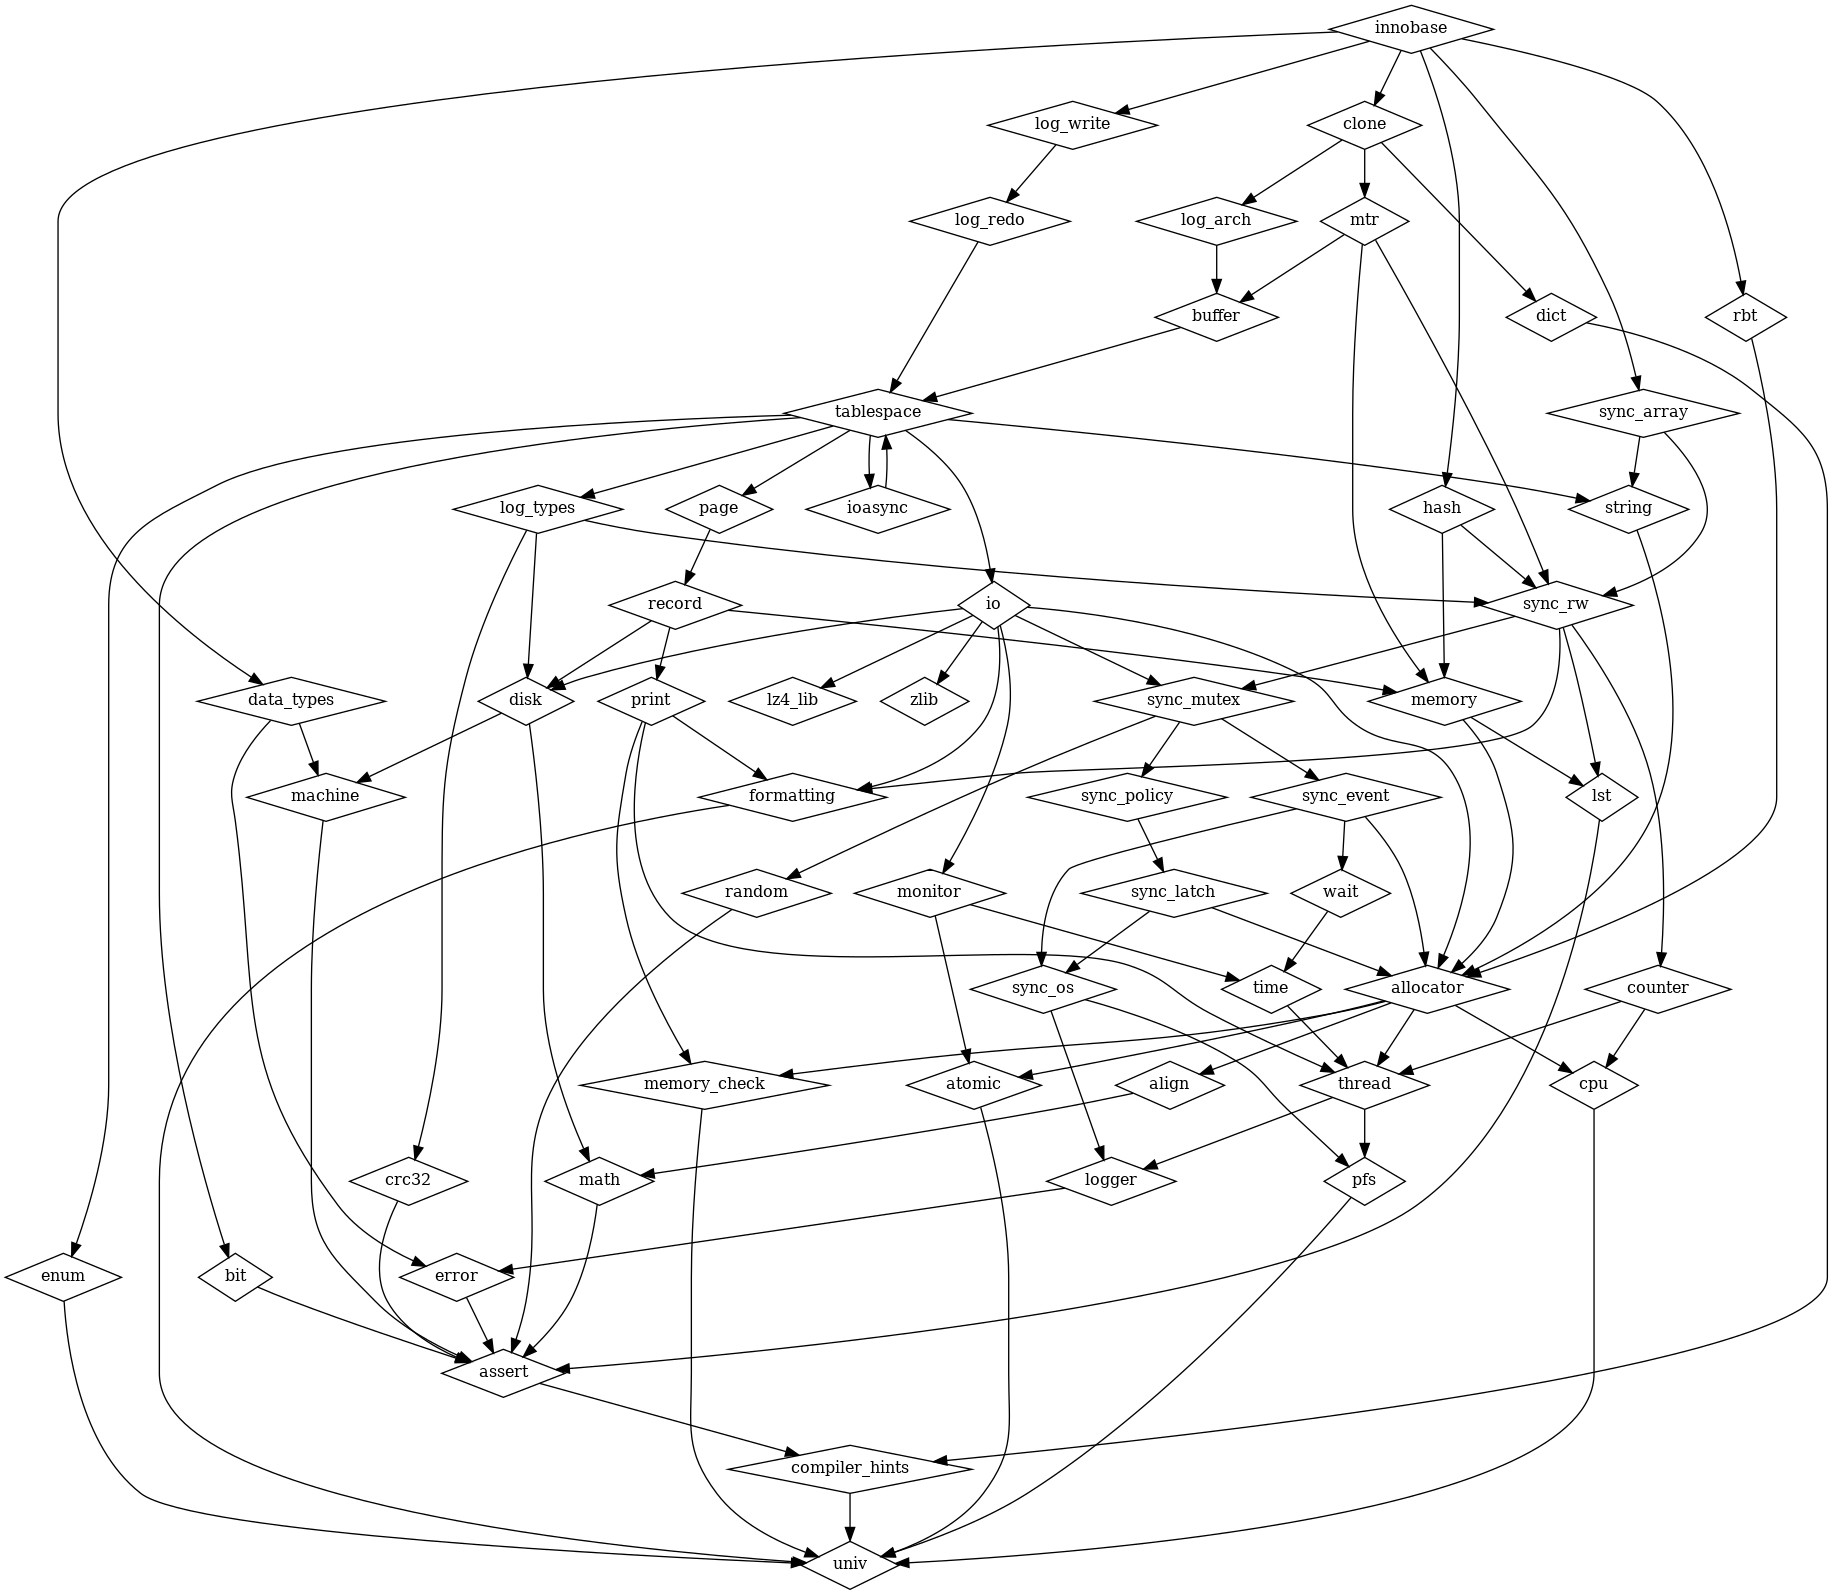
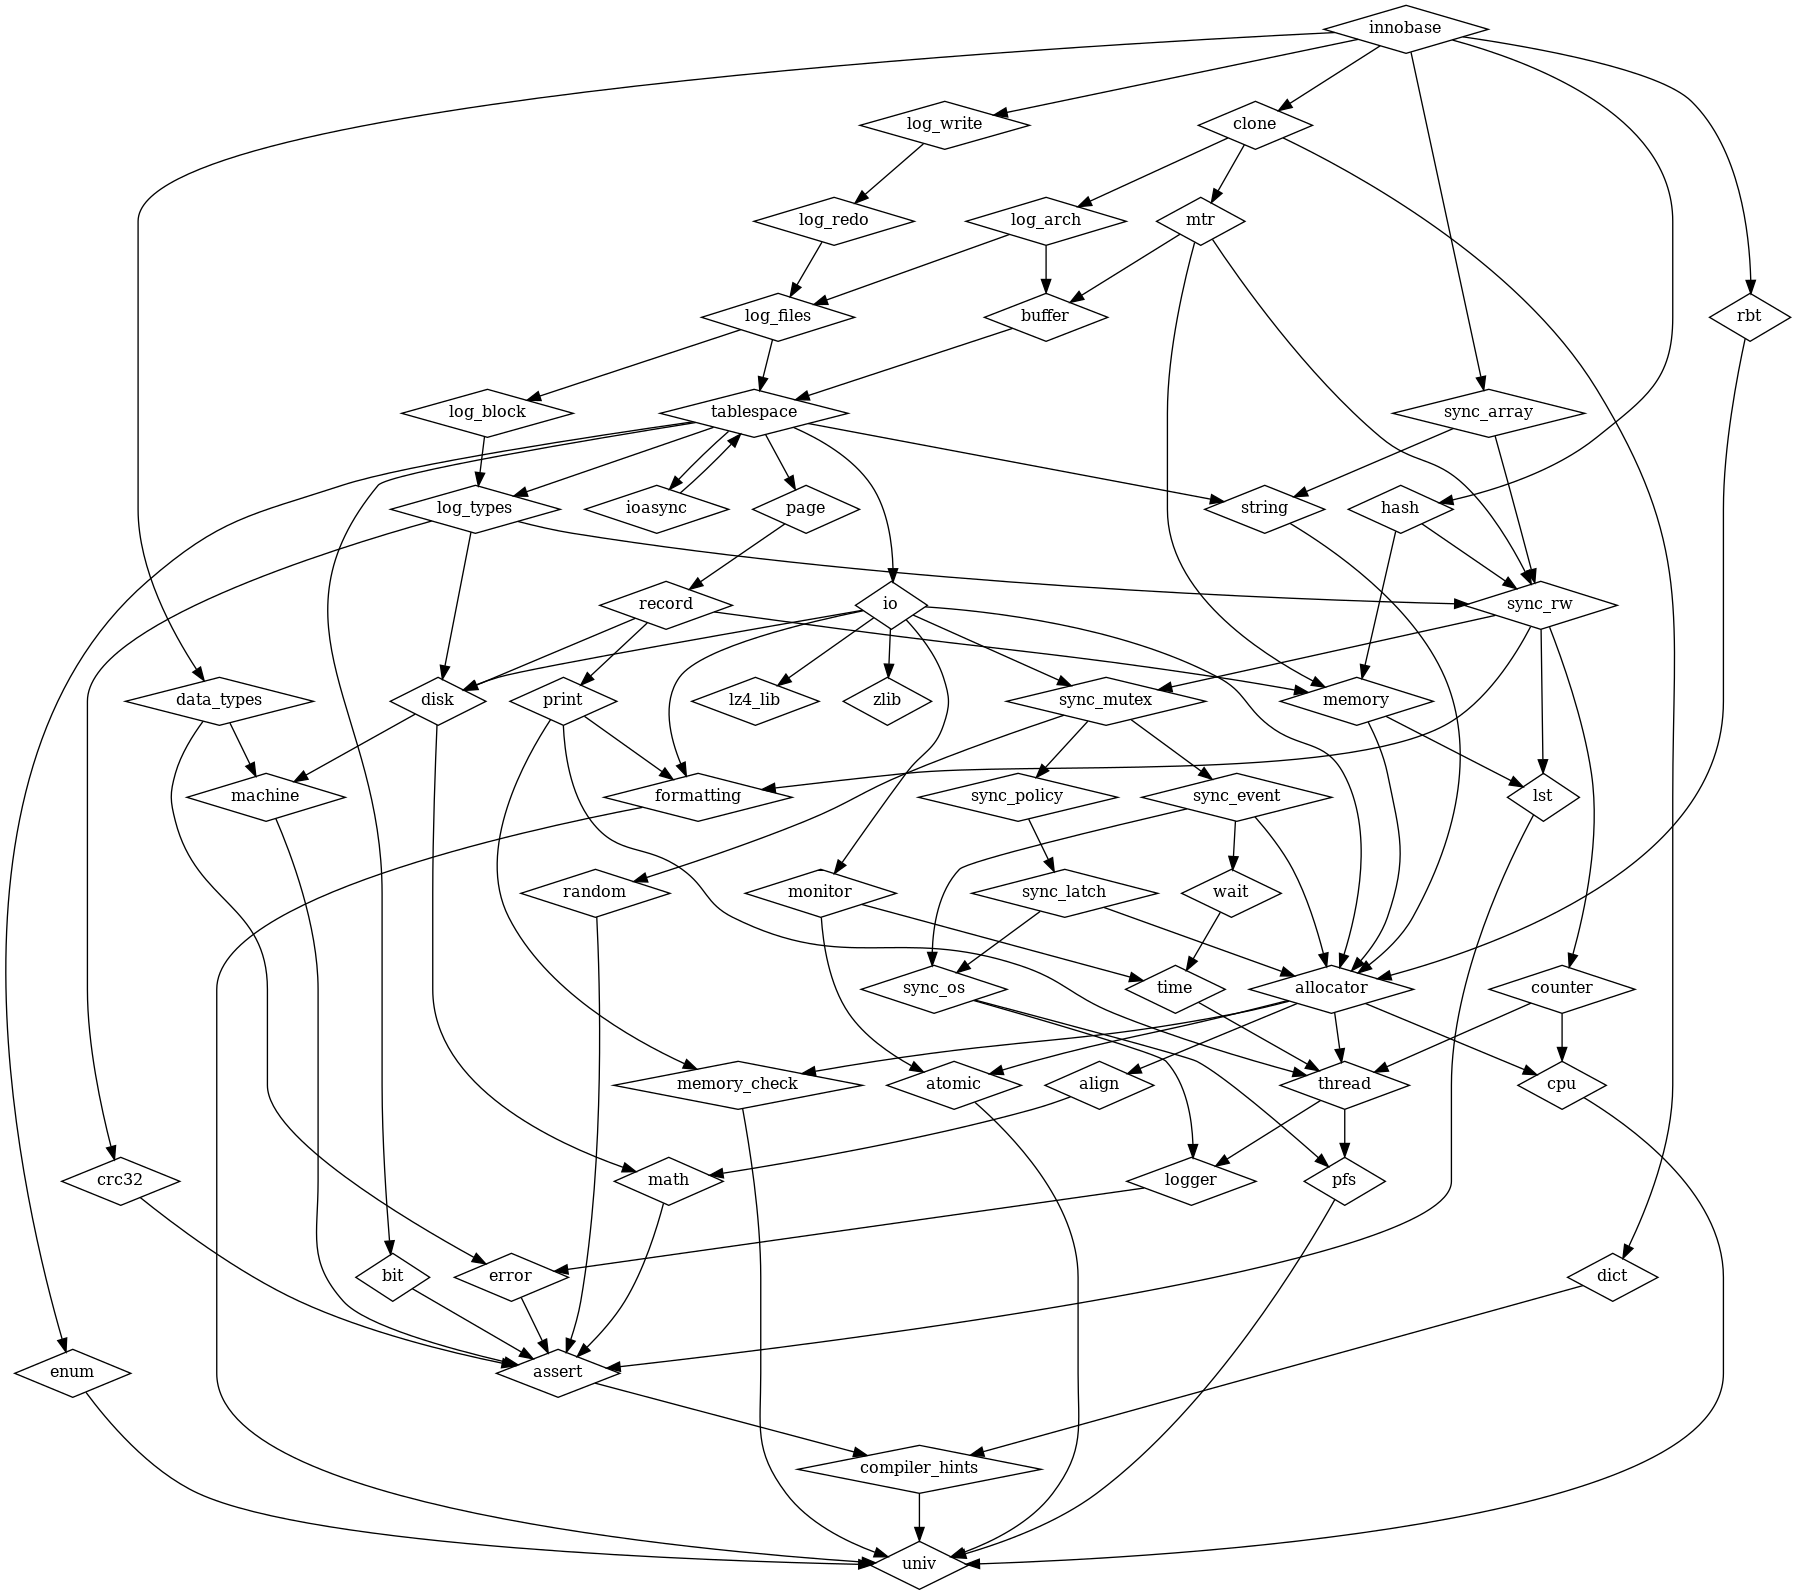
Create log_block and log_files libraries

diff --git a/storage/innobase/include/log0log.h b/storage/innobase/include/log0log.h
@@ -52,7 +52,7 @@ this program; if not, write to the Free Software Foundation, Inc.,
 #include <innodb/log_write/redo_rotate_default_master_key.h>
 #include <innodb/log_write/log_rotate_encryption.h>
 #include <innodb/log_write/log_write_encryption.h>
-#include <innodb/log_types/log_files_header_fill.h>
+#include <innodb/log_files/log_files_header_fill.h>
 #include <innodb/log_redo/log_threads_active.h>
 #include <innodb/log_redo/log_buffer_resize_low.h>
 #include <innodb/log_redo/log_write_ahead_resize.h>
@@ -73,9 +73,9 @@ this program; if not, write to the Free Software Foundation, Inc.,
 #include <innodb/log_redo/log_background_threads_active_validate.h>
 #include <innodb/log_redo/log_background_threads_inactive_validate.h>
 #include <innodb/log_redo/log_files_update_offsets.h>
-#include <innodb/log_types/log_files_real_offset_for_lsn.h>
-#include <innodb/log_types/log_files_real_offset.h>
-#include <innodb/log_types/log_files_size_offset.h>
+#include <innodb/log_files/log_files_real_offset_for_lsn.h>
+#include <innodb/log_files/log_files_real_offset.h>
+#include <innodb/log_files/log_files_size_offset.h>
 #include <innodb/log_redo/meb_log_print_file_hdr.h>
 #include <innodb/log_types/log_buffer_x_lock_exit.h>
 #include <innodb/log_types/log_buffer_x_lock_enter.h>
@@ -107,11 +107,11 @@ this program; if not, write to the Free Software Foundation, Inc.,
 #include <innodb/log_redo/log_block_get_checkpoint_no.h>
 #include <innodb/log_redo/log_block_set_checkpoint_no.h>
 #include <innodb/log_redo/log_block_convert_lsn_to_no.h>
-#include <innodb/log_types/log_block_calc_checksum.h>
-#include <innodb/log_types/log_block_calc_checksum_crc32.h>
-#include <innodb/log_types/log_block_calc_checksum_none.h>
-#include <innodb/log_types/log_block_get_checksum.h>
-#include <innodb/log_types/log_block_set_checksum.h>
+#include <innodb/log_block/log_block_calc_checksum.h>
+#include <innodb/log_block/log_block_calc_checksum_crc32.h>
+#include <innodb/log_block/log_block_calc_checksum_none.h>
+#include <innodb/log_block/log_block_get_checksum.h>
+#include <innodb/log_block/log_block_set_checksum.h>
 #include <innodb/log_redo/log_block_store_checksum.h>
 #include <innodb/log_redo/log_block_get_encrypt_bit.h>
 #include <innodb/log_redo/log_block_set_encrypt_bit.h>

diff --git a/storage/innobase/libs/log_arch/src/Arch_Log_Sys.cpp b/storage/innobase/libs/log_arch/src/Arch_Log_Sys.cpp
@@ -14,13 +14,13 @@
 #include <innodb/log_arch/srv_log_group_home_dir.h>
 #include <innodb/log_arch/start_log_archiver_background.h>
 #include <innodb/log_types/flags.h>
-#include <innodb/log_types/log_block_calc_checksum_crc32.h>
-#include <innodb/log_types/log_block_get_checksum.h>
-#include <innodb/log_types/log_block_set_checksum.h>
+#include <innodb/log_block/log_block_calc_checksum_crc32.h>
+#include <innodb/log_block/log_block_get_checksum.h>
+#include <innodb/log_block/log_block_set_checksum.h>
 #include <innodb/log_types/log_checkpointer_mutex_enter.h>
 #include <innodb/log_types/log_checkpointer_mutex_exit.h>
-#include <innodb/log_types/log_files_header_fill.h>
-#include <innodb/log_types/log_files_real_offset_for_lsn.h>
+#include <innodb/log_files/log_files_header_fill.h>
+#include <innodb/log_files/log_files_real_offset_for_lsn.h>
 #include <innodb/log_types/log_sys.h>
 #include <innodb/log_types/log_writer_mutex_enter.h>
 #include <innodb/log_types/log_writer_mutex_exit.h>

diff --git a/storage/innobase/libs/log_redo/src/log_files_header_flush.cpp b/storage/innobase/libs/log_redo/src/log_files_header_flush.cpp
@@ -1,14 +1,14 @@
 #include <innodb/log_redo/log_files_header_flush.h>
 
-#include <innodb/io/IORequestLogWrite.h>
-#include <innodb/log_types/log_t.h>
-#include <innodb/log_types/LSN_PF.h>
-#include <innodb/log_types/log_files_header_fill.h>
-#include <innodb/monitor/MONITOR_INC.h>
-#include <innodb/tablespace/fil_redo_io.h>
-#include <innodb/log_types/flags.h>
 #include <innodb/disk/univ_page_size.h>
+#include <innodb/io/IORequestLogWrite.h>
+#include <innodb/log_types/LSN_PF.h>
+#include <innodb/log_types/flags.h>
+#include <innodb/log_files/log_files_header_fill.h>
+#include <innodb/log_types/log_t.h>
+#include <innodb/monitor/MONITOR_INC.h>
 #include <innodb/page/page_id_t.h>
+#include <innodb/tablespace/fil_redo_io.h>
 
 void log_files_header_flush(log_t &log, uint32_t nth_file, lsn_t start_lsn) {
   ut_ad(log_writer_mutex_own(log));

diff --git a/storage/innobase/libs/log_files/src/log_files_header_fill.cpp b/storage/innobase/libs/log_files/src/log_files_header_fill.cpp
@@ -1,8 +1,8 @@
-#include <innodb/log_types/log_files_header_fill.h>
+#include <innodb/log_files/log_files_header_fill.h>
 
 #include <innodb/log_types/flags.h>
-#include <innodb/log_types/log_block_set_checksum.h>
-#include <innodb/log_types/log_block_calc_checksum_crc32.h>
+#include <innodb/log_block/log_block_set_checksum.h>
+#include <innodb/log_block/log_block_calc_checksum_crc32.h>
 #include <innodb/assert/assert.h>
 #include <innodb/machine/data.h>
 #include <innodb/log_types/log_header_format_t.h>

diff --git a/storage/innobase/libs/log_files/src/log_files_real_offset_for_lsn.cpp b/storage/innobase/libs/log_files/src/log_files_real_offset_for_lsn.cpp
@@ -1,8 +1,8 @@
-#include <innodb/log_types/log_files_real_offset_for_lsn.h>
+#include <innodb/log_files/log_files_real_offset_for_lsn.h>
 
 #include <innodb/log_types/flags.h>
-#include <innodb/log_types/log_files_real_offset.h>
-#include <innodb/log_types/log_files_size_offset.h>
+#include <innodb/log_files/log_files_real_offset.h>
+#include <innodb/log_files/log_files_size_offset.h>
 #include <innodb/log_types/log_writer_mutex_own.h>
 #include <innodb/log_types/log_t.h>
 

diff --git a/storage/innobase/libs/log_redo/src/log_block_store_checksum.cpp b/storage/innobase/libs/log_redo/src/log_block_store_checksum.cpp
@@ -1,7 +1,7 @@
 #include <innodb/log_redo/log_block_store_checksum.h>
 
-#include <innodb/log_types/log_block_set_checksum.h>
-#include <innodb/log_types/log_block_calc_checksum.h>
+#include <innodb/log_block/log_block_set_checksum.h>
+#include <innodb/log_block/log_block_calc_checksum.h>
 
 void log_block_store_checksum(byte *log_block) {
   log_block_set_checksum(log_block, log_block_calc_checksum(log_block));

diff --git a/storage/innobase/libs/log_redo/src/log_files_update_offsets.cpp b/storage/innobase/libs/log_redo/src/log_files_update_offsets.cpp
@@ -1,7 +1,7 @@
 #include <innodb/log_redo/log_files_update_offsets.h>
 
 #include <innodb/log_types/log_t.h>
-#include <innodb/log_types/log_files_real_offset_for_lsn.h>
+#include <innodb/log_files/log_files_real_offset_for_lsn.h>
 #include <innodb/align/ut_uint64_align_down.h>
 
 #ifndef UNIV_HOTBACKUP

diff --git a/storage/innobase/libs/log_write/src/compute_real_offset.cpp b/storage/innobase/libs/log_write/src/compute_real_offset.cpp
@@ -2,7 +2,7 @@
 
 #include <innodb/log_types/log_t.h>
 #include <innodb/log_types/flags.h>
-#include <innodb/log_types/log_files_real_offset_for_lsn.h>
+#include <innodb/log_files/log_files_real_offset_for_lsn.h>
 
 namespace Log_files_write_impl {
 

diff --git a/storage/innobase/libs/log_block/src/log_block_calc_checksum_crc32.cpp b/storage/innobase/libs/log_block/src/log_block_calc_checksum_crc32.cpp
@@ -1,4 +1,4 @@
-#include <innodb/log_types/log_block_calc_checksum_crc32.h>
+#include <innodb/log_block/log_block_calc_checksum_crc32.h>
 
 #include <innodb/log_types/flags.h>
 #include <innodb/machine/data.h>

diff --git a/storage/innobase/libs/log_block/src/log_block_calc_checksum.cpp b/storage/innobase/libs/log_block/src/log_block_calc_checksum.cpp
@@ -1,4 +1,4 @@
-#include <innodb/log_types/log_block_calc_checksum.h>
+#include <innodb/log_block/log_block_calc_checksum.h>
 
 #include <innodb/log_types/flags.h>
 #include <innodb/machine/data.h>

diff --git a/storage/innobase/libs/log_files/src/log_files_real_offset.cpp b/storage/innobase/libs/log_files/src/log_files_real_offset.cpp
@@ -1,4 +1,4 @@
-#include <innodb/log_types/log_files_real_offset.h>
+#include <innodb/log_files/log_files_real_offset.h>
 
 #include <innodb/log_types/log_t.h>
 #include <innodb/log_types/flags.h>

diff --git a/storage/innobase/libs/log_files/src/log_files_size_offset.cpp b/storage/innobase/libs/log_files/src/log_files_size_offset.cpp
@@ -1,4 +1,4 @@
-#include <innodb/log_types/log_files_size_offset.h>
+#include <innodb/log_files/log_files_size_offset.h>
 
 #include <innodb/log_types/log_t.h>
 #include <innodb/log_types/flags.h>
